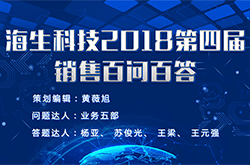
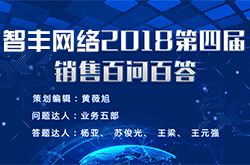
图1

Changed region(s): [[0.0, 0.1515, 0.42, 0.3333]]

diff --git a/connect/connect.html b/connect/connect.html
@@ -765,7 +765,7 @@
               <div class="team_line"></div>
               <div class="team_introduce">团队介绍</div>
               <div class="team_content">
-                智丰（广州）科技有限公司，是一家专业的第三方开发服务商，专注于分销、代理等系统开发服务，提供全行业的营销工具以及解决方案，致力于帮助传统行业向移动互联网转型和升级。</div>
+                广州智丰网络科技有限公司，是一家专业的第三方开发服务商，专注于分销、代理等系统开发服务，提供全行业的营销工具以及解决方案，致力于帮助传统行业向移动互联网转型和升级。</div>
             </div>
 
             <div class='item_content tab_content' id='project' style="display:block;">
@@ -873,6 +873,7 @@
       </div>
       <div class="account_c">
         <div class="table_title">付款方式</div>
+
         <div class='pay_gongshang'>
           <div class="account_img"><img src="../assets/images/aboutUs/bank_gongshang.png"
               tppabs="http://www.47cu.com/assets/images/aboutUs/bank_gongshang.png" alt=""></div>
@@ -883,15 +884,15 @@
           </div>
         </div>
 
-        <!-- <div class='pay_albb'>
-          <div class="account_img"><img src="../assets/images/aboutUs/pay_albb.png"
+        <div class='pay_albb'>
+          <!-- <div class="account_img"><img src="../assets/images/aboutUs/pay_albb.png"
               tppabs="http://www.47cu.com/assets/images/aboutUs/pay_albb.png" alt=""></div>
           <div class="account_right">
             <div class="account_bank"><span>支付宝:</span><span>企业支付宝</span></div>
             <div class="bank_num"><span>支付宝账号:</span><span>13544444695@163.com</span></div>
-            <div class="bank_name"><span>账户名:</span><span>智丰（广州）科技有限公司</span></div>
-          </div>
-        </div> -->
+            <div class="bank_name"><span>账户名:</span><span>广州智丰网络科技有限公司</span></div>
+          </div> -->
+        </div>
 
         <div class="pay_gongshang bor_bom">
           <div class="account_img"><img src="../assets/images/aboutUs/bank_gongshang.png"
@@ -903,6 +904,7 @@
           </div>
         </div>
       </div>
+
     </div>
 
 
@@ -964,7 +966,7 @@
           </div>
           <div class="msg_name">
             <span>广州总公司</span><br>
-            <span>智丰(广州)科技有限公司</span>
+            <span>广州智丰网络科技有限公司</span>
           </div>
         </div>
 
@@ -982,7 +984,7 @@
                 tppabs="http://www.47cu.com/assets/images/aboutUs/us_email.png" alt=""></span>
             <span>电子邮件</span>
             <span>|</span>
-            <span>haishengkeji@61wsw.com</span>
+            <span>m15997795207@163.com</span>
           </div>
 
           <!-- <div class="msg_content">

diff --git a/news/news.html b/news/news.html
@@ -654,7 +654,7 @@
                     <div id="news_all" class="tab_content" style='display:block'>
                         <a href="./news-details.html">
                             <div class="news_item">
-                                <div class="items_img"><img src="../assets/images/news/news_competer/1.png"></div>
+                                <div class="items_img"><img src="../assets/images/news/news_competer/1.png?v=1"></div>
                                 <div class="items_c">
                                     <div class="items_title">智丰网络2018销售百问百答</div>
                                     <div class="item_content">
@@ -973,7 +973,7 @@
                     <div id="news_competer" class="tab_content">
                         <a href="./news-details.html">
                             <div class="news_item">
-                                <div class="items_img"><img src="../assets/images/news/news_competer/1.png"></div>
+                                <div class="items_img"><img src="../assets/images/news/news_competer/1.png?v=1"></div>
                                 <div class="items_c">
                                     <div class="items_title">智丰网络2018销售百问百答</div>
                                     <div class="item_content">
